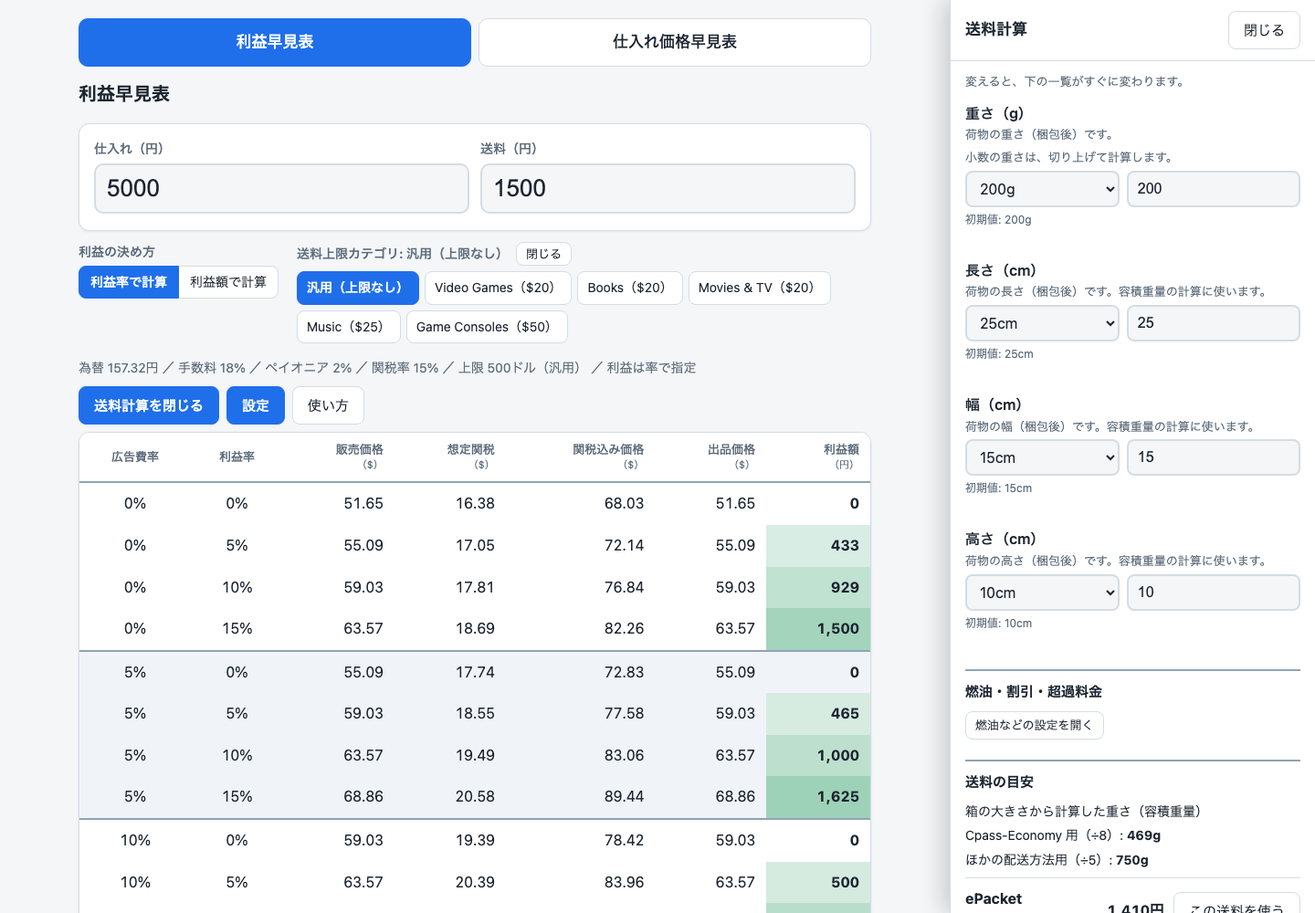
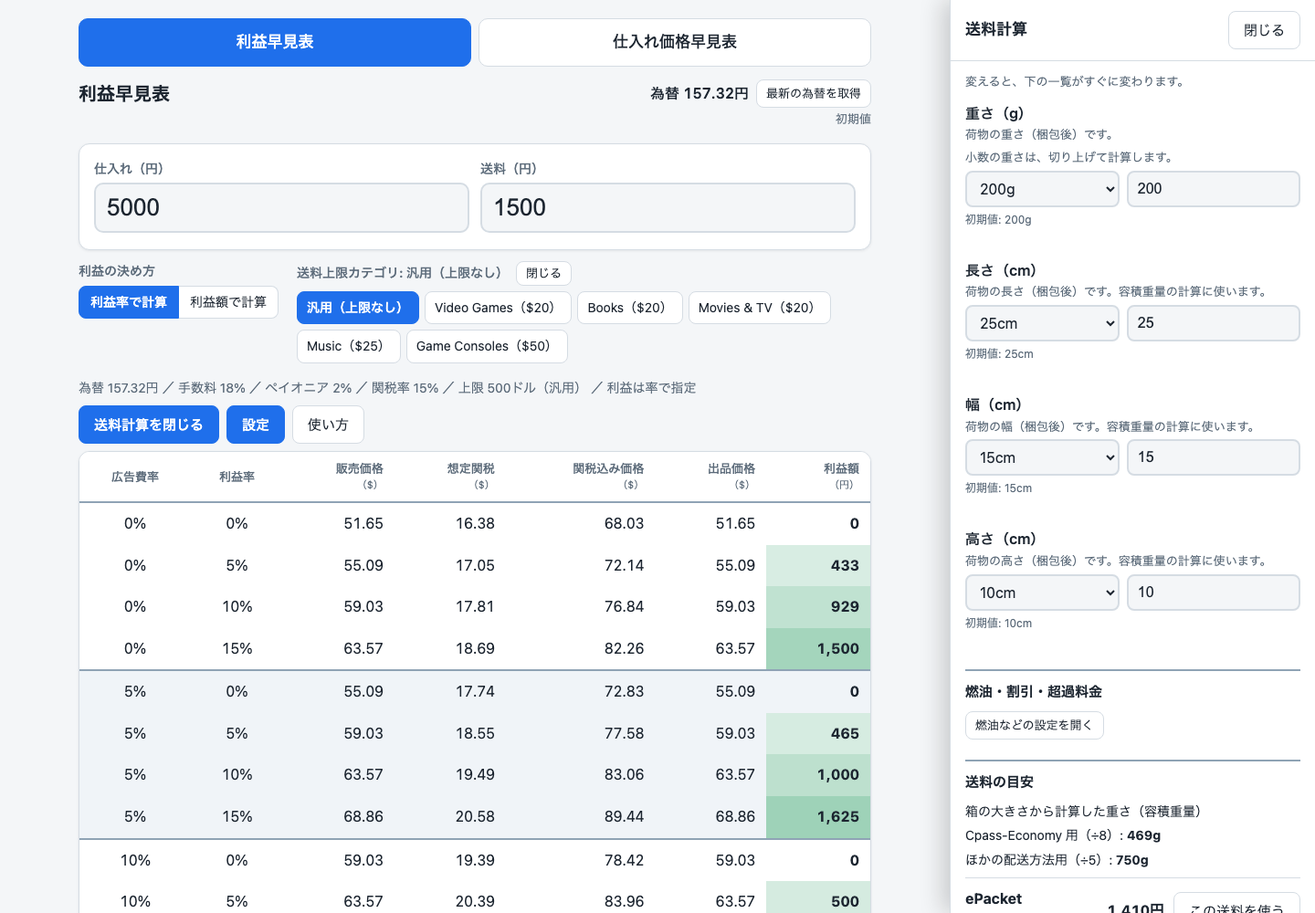
feat: 画面右上に為替の表示と最新取得ボタンを追加、使い方ガイドと画面写真を更新

Changed region(s): [[0.0625, 0.155, 0.6875, 1.0], [0.25, 0.589, 0.3125, 0.992], [0.5, 0.093, 0.6562, 0.155]]

diff --git a/guide.html b/guide.html
@@ -241,8 +241,8 @@ figcaption { font-size: 0.88rem; color: var(--muted); margin-top: 8px; line-heig
 <p>まず、画面の上にあるタブで「利益早見表」を選びます。はじめて開いたときは、こちらが選ばれています。前回選んだ表は、次に開いたときも覚えています。</p>
 
 <figure>
-  <img src="images/01-profit-table.png" alt="利益早見表の初期画面。仕入れ5000円、送料1500円を入れた状態で、広告費率0%から15%、利益率0%から15%の組み合わせが16行の表で並んでいる" width="1100" height="1500">
-  <figcaption>利益早見表の画面です。仕入れ 5000円、送料 1500円を入れた状態です。</figcaption>
+  <img src="images/01-profit-table.png" alt="利益早見表の初期画面。画面の右上に「為替 157.32円」と「最新の為替を取得」ボタン、その下に「初期値」の表示が出ている。仕入れ5000円、送料1500円を入れた状態で、広告費率0%から15%、利益率0%から15%の組み合わせが16行の表で並んでいる。いちばん下に「為替レートの提供: Rates By Exchange Rate API」の行がある" width="1100" height="1500">
+  <figcaption>利益早見表の画面です。仕入れ 5000円、送料 1500円を入れた状態です。右上に為替の表示、いちばん下に為替レートの提供元の行があります。</figcaption>
 </figure>
 
 <h3>手順</h3>
@@ -253,6 +253,21 @@ figcaption { font-size: 0.88rem; color: var(--muted); margin-top: 8px; line-heig
   <li>表を見ます。行は、広告費率と利益率の組み合わせです。自分の条件に近い行を探します。</li>
 </ol>
 <p>表の上の1行（為替・手数料・関税率などが並んだ行）には、いま計算に使っている条件が出ています。表の数字が思ったものと違うときは、まずここを見てください。</p>
+
+<h3>画面の右上の為替の表示</h3>
+<p>画面の右上（表の名前と同じ高さ）に、いま計算に使っている為替が「為替 157.32円」のように出ています。その横の「最新の為替を取得」ボタンを押すと、「設定」を開かなくても、最新の為替を取得して計算に使えます。取得するのは、このボタンを押したときだけです。自動では更新されません。</p>
+<p>ボタンの下の小さな文字は、いまの為替の状態です。</p>
+<div class="tablebox wide">
+  <table class="text">
+    <thead><tr><th>表示</th><th>意味</th></tr></thead>
+    <tbody>
+      <tr><td>初期値</td><td>ツールに入っている初期の為替を使っています。</td></tr>
+      <tr><td>9/30 08:38 に取得</td><td>ボタンで取得した為替です。日時は取得した時刻で、お使いの端末の時刻で出ます（日時は例です）。</td></tr>
+      <tr><td>手入力の値</td><td>「設定」の為替の欄に、自分で数字を入れた値です。</td></tr>
+    </tbody>
+  </table>
+</div>
+<p>取得中は「取得中です…」と出て、うまくいかなかったときは、同じ場所にメッセージが出ます（第9章）。為替のデータは、画面のいちばん下に書いてある提供元から取得します（第8章）。</p>
 
 <h3>表の列の見方</h3>
 <div class="tablebox">
@@ -294,7 +309,7 @@ figcaption { font-size: 0.88rem; color: var(--muted); margin-top: 8px; line-heig
 <p>並べる値そのものは、「設定」で変えます（第7章で説明します）。</p>
 
 <figure>
-  <img src="images/02-profit-amount.png" alt="「利益額で計算」を選んだ画面。利益額の列が1,000円、2,000円、3,000円、5,000円になり、利益率の列には10.7%などの計算結果が出ている" width="1100" height="1500" loading="lazy">
+  <img src="images/02-profit-amount.png" alt="「利益額で計算」を選んだ画面。画面の右上に「為替 157.32円」と「最新の為替を取得」ボタン、その下に「初期値」の表示が出ている。利益額の列が1,000円、2,000円、3,000円、5,000円になり、利益率の列には10.7%などの計算結果が出ている" width="1100" height="1500" loading="lazy">
   <figcaption>「利益額で計算」を選んだ画面です。利益額が 1,000円・2,000円・3,000円・5,000円の行になり、利益率の列に率が出ています。</figcaption>
 </figure>
 
@@ -334,7 +349,7 @@ figcaption { font-size: 0.88rem; color: var(--muted); margin-top: 8px; line-heig
 </ul>
 
 <figure>
-  <img src="images/03-category-adjusted.png" alt="Video Games（$20）を選び、仕入れ20000円、送料1500円にした画面。想定関税の下に赤い「関税の請求は $20.00 まで」、出品価格の下に赤い「調整あり」が出ている。広告費率10%、利益率10%の行は、販売価格227.78、想定関税56.64、関税込み価格284.42、出品価格264.42" width="1100" height="1500" loading="lazy">
+  <img src="images/03-category-adjusted.png" alt="Video Games（$20）を選び、仕入れ20000円、送料1500円にした画面。画面の右上に「為替 157.32円」と「最新の為替を取得」ボタン、その下に「初期値」の表示が出ている。想定関税の下に赤い「関税の請求は $20.00 まで」、出品価格の下に赤い「調整あり」が出ている。広告費率10%、利益率10%の行は、販売価格227.78、想定関税56.64、関税込み価格284.42、出品価格264.42" width="1100" height="1500" loading="lazy">
   <figcaption>Video Games（$20）を選び、仕入れを 20000円にした例です。赤い表示の行が「調整あり」です。利益率0%の行の利益額が 1 や -1 になっているのは、丸めによるものです。</figcaption>
 </figure>
 
@@ -353,8 +368,8 @@ figcaption { font-size: 0.88rem; color: var(--muted); margin-top: 8px; line-heig
 <p>カテゴリの欄は、右上の「閉じる」ボタンで小さくできます。閉じると、ボタンが「開く」に変わります。閉じている間も、選んだカテゴリはそのまま計算に使われます。</p>
 
 <figure>
-  <img src="images/11-category-closed.png" alt="送料上限カテゴリの欄を閉じた画面。「送料上限カテゴリ: Video Games（$20）」の右に「開く」ボタンがあり、6つのカテゴリボタンは隠れている" width="1100" height="1500" loading="lazy">
-  <figcaption>カテゴリの欄を閉じた状態です（仕入れ 5000円の画面）。「開く」を押すと、6つのボタンがまた出ます。</figcaption>
+  <img src="images/11-category-closed.png" alt="送料上限カテゴリの欄を閉じた画面。画面の右上に「為替 157.32円」と「最新の為替を取得」ボタン、その下に「初期値」の表示が出ている。「送料上限カテゴリ: Video Games（$20）」の右に「開く」ボタンがあり、6つのカテゴリボタンは隠れている" width="1100" height="1500" loading="lazy">
+  <figcaption>カテゴリの欄を閉じた状態です（仕入れ 5000円、カテゴリは Video Games）。「開く」を押すと、6つのボタンがまた出ます。</figcaption>
 </figure>
 
 <h2 id="s5">5. 送料計算の使い方</h2>
@@ -362,7 +377,7 @@ figcaption { font-size: 0.88rem; color: var(--muted); margin-top: 8px; line-heig
 <p>パネルは、パネル内の「閉じる」ボタン、または「送料計算を閉じる」ボタンで閉じます。キーボードのEscキーでも閉じられます。「設定」のパネルも同じです。</p>
 
 <figure>
-  <img src="images/04-shipping-calc.png" alt="送料計算のパネルを開いた画面。パネルには重さ200g、長さ25cm、幅15cm、高さ10cmが入っている。「燃油・割引・超過料金」の見出しの下に「燃油などの設定を開く」ボタンがあり、その下の「送料の目安」に、容積重量としてCpass-Economy用469g、ほかの配送方法用750gが出ている。一覧の先頭にePacketが見える" width="1440" height="1000" loading="lazy">
+  <img src="images/04-shipping-calc.png" alt="送料計算のパネルを開いた画面。左側の主画面の右上には「為替 157.32円」と「最新の為替を取得」ボタンがある。パネルには重さ200g、長さ25cm、幅15cm、高さ10cmが入っている。「燃油・割引・超過料金」の見出しの下に「燃油などの設定を開く」ボタンがあり、その下の「送料の目安」に、容積重量としてCpass-Economy用469g、ほかの配送方法用750gが出ている。一覧の先頭にePacketが見える" width="1440" height="1000" loading="lazy">
   <figcaption>送料計算のパネルです。初期値は 重さ200g、長さ25cm、幅15cm、高さ10cm です。</figcaption>
 </figure>
 
@@ -392,7 +407,7 @@ figcaption { font-size: 0.88rem; color: var(--muted); margin-top: 8px; line-heig
 <p>使いたい配送方法の横の「この送料を使う」を押すと、その金額が「送料（円）」に入ります。入力欄の下には、どの方法・どの重さで決めたかが小さく出ます。</p>
 
 <figure>
-  <img src="images/05-shipping-applied.png" alt="Cpass-Economyの「この送料を使う」を押したあとの画面。送料欄が2060になり、その下に「送料計算から設定: Cpass-Economy（重さ200g、料金に使う重さ469g）」と出て、パネルに確認メッセージが緑色で出ている。一覧には、Cpass-FedEx、Cpass-DHL、eLogisticsの料金に使う重さが1,000gと出ている" width="1440" height="1000" loading="lazy">
+  <img src="images/05-shipping-applied.png" alt="Cpass-Economyの「この送料を使う」を押したあとの画面。左側の主画面の右上に為替の表示がある。送料欄が2060になり、その下に「送料計算から設定: Cpass-Economy（重さ200g、料金に使う重さ469g）」と出て、パネルに確認メッセージが緑色で出ている。一覧には、Cpass-FedEx、Cpass-DHL、eLogisticsの料金に使う重さが1,000gと出ている" width="1440" height="1000" loading="lazy">
   <figcaption>Cpass-Economy の「この送料を使う」を押したあとです。送料が 2060 になり、入力欄の下に説明が出ています。</figcaption>
 </figure>
 
@@ -439,11 +454,11 @@ figcaption { font-size: 0.88rem; color: var(--muted); margin-top: 8px; line-heig
 </ol>
 
 <figure>
-  <img src="images/06-purchase-table.png" alt="仕入れ価格早見表の画面。「関税を含まない販売価格」を選び、販売価格100ドル、送料1500円を入れた状態。仕入れ価格の列に、11,085、10,298、9,512などが並んでいる" width="1100" height="1500" loading="lazy">
+  <img src="images/06-purchase-table.png" alt="仕入れ価格早見表の画面。画面の右上に「為替 157.32円」と「最新の為替を取得」ボタン、その下に「初期値」の表示が出ている。「関税を含まない販売価格」を選び、販売価格100ドル、送料1500円を入れた状態。仕入れ価格の列に、11,085、10,298、9,512などが並んでいる" width="1100" height="1500" loading="lazy">
   <figcaption>「関税を含まない販売価格」に 100ドルを入れた例です。広告費率10%、利益率0%の行は 9,512円です。</figcaption>
 </figure>
 <figure>
-  <img src="images/07-purchase-table-incl.png" alt="「関税込み価格」を選び、関税込み価格120ドル、送料1500円を入れた画面。仕入れ価格の列に10,477、9,728などが並び、販売価格は95.17ドルなどに逆算されている" width="1100" height="1500" loading="lazy">
+  <img src="images/07-purchase-table-incl.png" alt="画面の右上に「為替 157.32円」と「最新の為替を取得」ボタン、その下に「初期値」の表示が出ている。「関税込み価格」を選び、関税込み価格120ドル、送料1500円を入れた画面。仕入れ価格の列に10,477、9,728などが並び、販売価格は95.17ドルなどに逆算されている" width="1100" height="1500" loading="lazy">
   <figcaption>「関税込み価格」に 120ドルを入れた例です。関税込み価格から、販売価格を逆算しています。</figcaption>
 </figure>
 
@@ -469,7 +484,7 @@ figcaption { font-size: 0.88rem; color: var(--muted); margin-top: 8px; line-heig
 <p>「利益率（%）」と「利益額（円）」のうち、いま表に使っている方には「いま使用中」の印が付きます。どちらで計算するかは、設定ではなく、画面の上のボタンで切り替えます。</p>
 
 <figure>
-  <img src="images/08-settings-top.png" alt="設定パネルの上の部分。広告費率と利益率の4つの枠に、それぞれ一覧と数字の欄があり、利益率の横に「いま使用中」の印が出ている" width="1440" height="1000" loading="lazy">
+  <img src="images/08-settings-top.png" alt="設定パネルの上の部分。左側の主画面の右上に為替の表示がある。広告費率と利益率の4つの枠に、それぞれ一覧と数字の欄があり、利益率の横に「いま使用中」の印が出ている" width="1440" height="1000" loading="lazy">
   <figcaption>設定パネルの上の部分です。広告費率・利益率・利益額の枠が並びます。</figcaption>
 </figure>
 
@@ -478,12 +493,13 @@ figcaption { font-size: 0.88rem; color: var(--muted); margin-top: 8px; line-heig
 <ul>
   <li>手数料率は、販売サイトに支払う手数料の割合です。</li>
   <li>ペイオニア手数料率は、海外から代金を受け取る際の受取サービスの手数料の割合です。</li>
-  <li>為替は、「最新の為替を取得」ボタンを押すと、最新の値を取得して入れます。取得できなかったときは、メッセージが出て、いまの値のままになります（第9章）。</li>
+  <li>為替は、「最新の為替を取得」ボタンを押すと、最新の値を取得して入れます。同じボタンは、主画面の右上にもあります。どちらを押しても同じ動きです。取得できなかったときは、メッセージが出て、いまの値のままになります（第9章）。</li>
+  <li>為替の欄の下には、状態（「初期値」「9/30 08:38 に取得」のような取得した時刻、「手入力の値」）が出ます。右上の表示と同じ内容です。</li>
 </ul>
 
 <figure>
-  <img src="images/09-settings-rates.png" alt="設定パネルの中ほど。為替の欄と「最新の為替を取得」ボタン、手数料率、ペイオニア手数料率、関税率、上乗せ係数、関税処理手数料率の欄が並んでいる" width="1440" height="1000" loading="lazy">
-  <figcaption>設定パネルの中ほどです。為替の欄の下に「最新の為替を取得」ボタンがあります。</figcaption>
+  <img src="images/09-settings-rates.png" alt="設定パネルの中ほど。為替の欄と「最新の為替を取得」ボタン、その下の「初期値」の表示、「為替レートの提供: Rates By Exchange Rate API」の行、手数料率、ペイオニア手数料率、関税率、上乗せ係数、関税処理手数料率の欄が並んでいる" width="1440" height="1000" loading="lazy">
+  <figcaption>設定パネルの中ほどです。為替の欄の下に「最新の為替を取得」ボタンと、状態の表示（この写真では「初期値」）、為替レートの提供元の行があります。</figcaption>
 </figure>
 
 <h3>関税の項目</h3>
@@ -513,7 +529,7 @@ figcaption { font-size: 0.88rem; color: var(--muted); margin-top: 8px; line-heig
   <table class="text">
     <thead><tr><th>区分</th><th>内容</th></tr></thead>
     <tbody>
-      <tr><td>初期値に戻るもの</td><td>「設定」の全項目（表に並べる条件、為替、手数料、関税の項目、「想定関税が上限以上のとき、出品価格を調整する」のチェック、「Cpass-Economy で送る」、「汎用のときの上限（ドル）」）／「利益の決め方」の切り替え／送料上限カテゴリ／「送料計算」のすべての欄</td></tr>
+      <tr><td>初期値に戻るもの</td><td>「設定」の全項目（表に並べる条件、為替、手数料、関税の項目、「想定関税が上限以上のとき、出品価格を調整する」のチェック、「Cpass-Economy で送る」、「汎用のときの上限（ドル）」）／「利益の決め方」の切り替え／送料上限カテゴリ／「送料計算」のすべての欄／為替の状態の表示（「初期値」に戻ります）</td></tr>
       <tr><td>そのまま残るもの</td><td>いま選んでいる表（利益早見表か仕入れ価格早見表か）／入力した仕入れ／入力した価格と「入力する価格の意味」／入力した送料／カテゴリの欄の開閉の状態</td></tr>
       <tr><td>消えるもの</td><td>送料計算から設定した送料の記録（送料欄の下の説明）と、パネルの確認メッセージ</td></tr>
     </tbody>
@@ -524,15 +540,16 @@ figcaption { font-size: 0.88rem; color: var(--muted); margin-top: 8px; line-heig
 </div>
 
 <figure>
-  <img src="images/10-settings-bottom.png" alt="設定パネルの下の部分。Cpass-Economyの通関手数料、送料の上限の説明、調整のチェック、汎用のときの上限、いちばん下に「初期値に戻す」ボタンが見える" width="1440" height="1000" loading="lazy">
+  <img src="images/10-settings-bottom.png" alt="設定パネルの下の部分。左側の主画面の右上に為替の表示がある。Cpass-Economyの通関手数料、送料の上限の説明、調整のチェック、汎用のときの上限、いちばん下に「初期値に戻す」ボタンが見える" width="1440" height="1000" loading="lazy">
   <figcaption>設定パネルの下の部分です。いちばん下に「初期値に戻す」ボタンがあります。</figcaption>
 </figure>
 
 <h2 id="s8">8. 知っておきたい点</h2>
 <ul>
+  <li><strong>最後に入力した仕入れ・送料・価格は、自動で保存されます。</strong>ページをもう一度開いたときに、そのまま戻ります。保存されるのは、使っているブラウザの中だけです。別のパソコンやブラウザには引き継がれません。ブラウザの保存データを消すと、設定と入力も消えることがあります。</li>
+  <li><strong>為替レートは、画面のいちばん下に書いてある提供元から取得します。</strong>下の行が、その表示です（設定の為替の欄の下にも同じ行があります）。<br>為替レートの提供: <a href="https://www.exchangerate-api.com" target="_blank" rel="noopener">Rates By Exchange Rate API</a></li>
   <li><strong>計算は目安です。</strong>実際の手数料・関税・送料は、販売サイトや配送会社の最新の案内を確認してください。</li>
-  <li><strong>設定と入力は、使っているブラウザの中だけに保存されます。</strong>別のパソコンやブラウザには引き継がれません。ブラウザの保存データを消すと、設定と入力も消えることがあります。</li>
-  <li><strong>為替は、ボタンを押したときだけ最新の値を取得します。</strong>自動では更新されません。</li>
+  <li><strong>為替は、ボタンを押したときだけ最新の値を取得します。</strong>自動では更新されません。ボタンは、主画面の右上と「設定」の中にあります。</li>
   <li><strong>仕入れ価格早見表の金額を利益早見表に入れ直すと、</strong>端数の関係で、販売価格が1〜2セント、利益が数円ずれることがあります。</li>
   <li><strong>関税込み価格を入力したとき、</strong>表の関税込み価格が入力と1セントずれることがあります。</li>
   <li><strong>重さの小数は切り上げて計算します。</strong>30kgを超える重さの送料は、料金表が固定額のため、実際の料金と違う可能性があります。</li>
@@ -540,7 +557,7 @@ figcaption { font-size: 0.88rem; color: var(--muted); margin-top: 8px; line-heig
 </ul>
 
 <h2 id="s9">9. 入力がうまくいかないとき</h2>
-<p>入力が使えない値のときは、ツールが次のメッセージを出します。メッセージごとの対処をまとめます。</p>
+<p>入力が使えない値のときは、ツールが次のメッセージを出します。メッセージごとの対処をまとめます。為替のメッセージは、主画面の右上の状態表示と、「設定」の為替の欄の下に出ます。</p>
 <div class="tablebox wide">
   <table class="text">
     <thead><tr><th>メッセージ</th><th>出る場面と対処</th></tr></thead>

diff --git a/test-calc.js b/test-calc.js
@@ -14,7 +14,9 @@ var mf = html.match(/\/\/ FORM-START([\s\S]*?)\/\/ FORM-END/);
 if (!mf) { console.log('FAIL: FORM block not found'); process.exit(1); }
 var mr = html.match(/\/\/ REV-START([\s\S]*?)\/\/ REV-END/);
 if (!mr) { console.log('FAIL: REV block not found'); process.exit(1); }
-var api = new Function(m[1] + mb[1] + mc[1] + ms[1] + mf[1] + mr[1] + '; return { calcRow: calcRow, calcRowAmount: calcRowAmount, parseNum: parseNum, evalGroup: evalGroup, effectiveThreshold: effectiveThreshold, adjustExampleText: adjustExampleText, CAP_CATEGORIES: CAP_CATEGORIES, chargedTariffUSD: chargedTariffUSD, formatYen: formatYen, formatUsd: formatUsd, MAX_INPUT: MAX_INPUT, shipCost: shipCost, shipBandLookup: shipBandLookup, shipVolWeight: shipVolWeight, shipEpacket: shipEpacket, SHIP_BANDS: SHIP_BANDS, SHIP_METHODS: SHIP_METHODS, SHIP_LIMITS: SHIP_LIMITS, validateShipInputs: validateShipInputs, validateFuelSection: validateFuelSection, shipAvailability: shipAvailability, loadStored: loadStored, pickMatch: pickMatch, SHDEFS: SHDEFS, SHIP_WEIGHT_MAX: SHIP_WEIGHT_MAX, calcRev: calcRev, formatPercent: formatPercent, legendVisible: legendVisible, resetScope: resetScope, tariffInputs: tariffInputs, tariffFor: tariffFor, validateRevInputs: validateRevInputs, revSummaryText: revSummaryText };')();
+var mfx = html.match(/\/\/ FX-START([\s\S]*?)\/\/ FX-END/);
+if (!mfx) { console.log('FAIL: FX block not found'); process.exit(1); }
+var api = new Function(m[1] + mb[1] + mc[1] + ms[1] + mf[1] + mr[1] + mfx[1] + '; return { calcRow: calcRow, calcRowAmount: calcRowAmount, parseNum: parseNum, evalGroup: evalGroup, effectiveThreshold: effectiveThreshold, adjustExampleText: adjustExampleText, CAP_CATEGORIES: CAP_CATEGORIES, chargedTariffUSD: chargedTariffUSD, formatYen: formatYen, formatUsd: formatUsd, MAX_INPUT: MAX_INPUT, shipCost: shipCost, shipBandLookup: shipBandLookup, shipVolWeight: shipVolWeight, shipEpacket: shipEpacket, SHIP_BANDS: SHIP_BANDS, SHIP_METHODS: SHIP_METHODS, SHIP_LIMITS: SHIP_LIMITS, validateShipInputs: validateShipInputs, validateFuelSection: validateFuelSection, shipAvailability: shipAvailability, loadStored: loadStored, pickMatch: pickMatch, SHDEFS: SHDEFS, SHIP_WEIGHT_MAX: SHIP_WEIGHT_MAX, calcRev: calcRev, formatPercent: formatPercent, legendVisible: legendVisible, resetScope: resetScope, tariffInputs: tariffInputs, tariffFor: tariffFor, formatFxTime: formatFxTime, fxStatusText: fxStatusText, validateRevInputs: validateRevInputs, revSummaryText: revSummaryText };')();
 var calcRow = api.calcRow, calcRowAmount = api.calcRowAmount, parseNum = api.parseNum, evalGroup = api.evalGroup;
 var effectiveThreshold = api.effectiveThreshold;
 
@@ -349,7 +351,7 @@ check('availability: fallback rows report their own limit', api.shipAvailability
 check('availability: normal rows are available', api.shipAvailability('EMS', api.shipCost('EMS', 500, 10, 10, 10, SP)) === null && api.SHIP_WEIGHT_MAX === 68000, '');
 
 // 20) F9: 保存データの読み込み
-var BASE = { tab: 'profit', revMode: 'excl', revPrice: '100', capOpen: true, exchangeRate: '157.315109', useCpassEconomy: false, adjustEnabled: true, capCategory: caps[0], profitMode: 'rate', pr1: '0', pr2: '5', pr3: '10', pr4: '15', pa1: '1000', pa4: '5000', shWeight: '200', shL: '25', shFuelF: '40' };
+var BASE = { fxAt: '', fxSource: 'default', tab: 'profit', revMode: 'excl', revPrice: '100', capOpen: true, exchangeRate: '157.315109', useCpassEconomy: false, adjustEnabled: true, capCategory: caps[0], profitMode: 'rate', pr1: '0', pr2: '5', pr3: '10', pr4: '15', pa1: '1000', pa4: '5000', shWeight: '200', shL: '25', shFuelF: '40' };
 function ld(o) { return api.loadStored(o, BASE); }
 var initOut = { state: BASE, inputs: { cost: '5000', ship: '1500' }, applied: null };
 check('load: old data without pr4 / pa4 / shipping keys keeps initial values', (function () {
@@ -499,7 +501,7 @@ check('tariffInputs: single source gives the same k and c as the written-out for
   var t = api.tariffInputs(S, 0.05), adj = 0.15 / (1 - 0.18 - 0.05) * 1.03;
   return t.adj === adj && t.k === adj * 1.021 + 0.08 * 0.021 && t.c === 0 + 0 + 1000 / 157.315109 && api.tariffInputs(S, 0.82) === null; })(), '');
 // H3: 初期値に戻すの範囲
-var BASE2 = { tab: 'profit', revMode: 'excl', revPrice: '100', capOpen: true, exchangeRate: '157.315109', profitMode: 'rate', capCategory: caps[0], useCpassEconomy: false, pr1: '0', shWeight: '200', shFuelF: '40', adjustEnabled: true };
+var BASE2 = { fxAt: '', fxSource: 'default', tab: 'profit', revMode: 'excl', revPrice: '100', capOpen: true, exchangeRate: '157.315109', profitMode: 'rate', capCategory: caps[0], useCpassEconomy: false, pr1: '0', shWeight: '200', shFuelF: '40', adjustEnabled: true };
 var curState = { tab: 'rev', revMode: 'incl', revPrice: '77.5', capOpen: false, exchangeRate: '150', profitMode: 'amount', capCategory: caps[1], useCpassEconomy: true, pr1: '9', shWeight: '999', shFuelF: '10', adjustEnabled: false };
 var MSG0 = '設定を初期値に戻しました。利益の決め方・送料上限カテゴリ・送料計算の条件も初期値に戻っています。入力した仕入れ・価格・送料はそのままです。';
 var rs1 = api.resetScope(curState, { cost: '8000', ship: '2060' }, { m: 'Cpass-Economy', weightEntered: 200, weightG: 469, yen: 2060 }, BASE2);
@@ -535,5 +537,30 @@ if (extensionUrls) {
 check('ext: markup has the hidden web link and the in-extension styles', /<a class="guidelink hidden" id="webLink" href="https:\/\/naokijodan\.github\.io\/profit-matrix\/" target="_blank" rel="noopener">ウェブ版<\/a>/.test(html) && /body\.in-extension\.settings-open \{ padding-right: 0; \}/.test(html) && /var IN_EXTENSION = location\.protocol === 'chrome-extension:'/.test(html), '');
 
 check('credit: attribution link text and URL appear exactly twice (footer and settings)', html.split('為替レートの提供: <a href="https://www.exchangerate-api.com" target="_blank" rel="noopener">Rates By Exchange Rate API</a>').length - 1 === 2, '');
+
+// 24) J1: 為替の取得時刻と状態の表示
+var T0 = Date.UTC(2026, 8, 29, 18, 20);   // 日本時間 2026-09-30 03:20
+check('formatFxTime: 9/30 03:20 in Japan time', api.formatFxTime(T0, 540) === '9/30 03:20', api.formatFxTime(T0, 540));
+check('formatFxTime: no zero padding for month/day, zero padding for hour/minute', api.formatFxTime(Date.UTC(2026, 0, 4, 22, 5), 540) === '1/5 07:05' && api.formatFxTime(Date.UTC(2026, 11, 31, 14, 59), 540) === '12/31 23:59' && api.formatFxTime(T0, 0) === '9/29 18:20', '');
+check('formatFxTime: default uses the local time zone', (function () { var d = new Date(T0); return api.formatFxTime(T0) === (d.getMonth() + 1) + '/' + d.getDate() + ' ' + (d.getHours() < 10 ? '0' : '') + d.getHours() + ':' + (d.getMinutes() < 10 ? '0' : '') + d.getMinutes(); })(), api.formatFxTime(T0));
+check('fxStatusText: default / manual / fetched', api.fxStatusText('default', '') === '初期値' && api.fxStatusText('manual', String(T0)) === '手入力の値' && api.fxStatusText('fetched', String(T0), 540) === '9/30 03:20 に取得', api.fxStatusText('fetched', String(T0), 540));
+check('fxStatusText: fetched without a usable time, and unknown source', api.fxStatusText('fetched', '') === '取得した値' && api.fxStatusText('fetched', 'abc') === '取得した値' && api.fxStatusText('fetched', '0') === '取得した値' && api.fxStatusText('fetched', 5) === '取得した値' && api.fxStatusText('x', '') === '初期値' && api.fxStatusText(undefined) === '初期値', '');
+// J3: 為替の新しい保存項目
+check('load: old data without fxAt / fxSource gives initial values', (function () { var r = ld({ exchangeRate: '150' }); return r.state.fxAt === '' && r.state.fxSource === 'default' && r.state.exchangeRate === '150'; })(), '');
+check('load: fxAt / fxSource restored', (function () { var r = ld({ exchangeRate: '151.2', fxSource: 'fetched', fxAt: String(T0) }); return r.state.fxSource === 'fetched' && r.state.fxAt === String(T0) && api.fxStatusText(r.state.fxSource, r.state.fxAt, 540) === '9/30 03:20 に取得'; })(), '');
+check('load: manual source restored', ld({ fxSource: 'manual' }).state.fxSource === 'manual', '');
+check('load: bad fxAt / fxSource fall back', (function () { var r = ld({ fxSource: 'x', fxAt: 123 }), r2 = ld({ fxSource: 5, fxAt: '1e5' }), r3 = ld({ fxAt: '12abc' }), r4 = ld({ fxAt: '1234567890123456' }); return r.state.fxSource === 'default' && r.state.fxAt === '' && r2.state.fxSource === 'default' && r2.state.fxAt === '' && r3.state.fxAt === '' && r4.state.fxAt === ''; })(), '');
+check('reset scope: exchange-rate source and time go back to initial', (function () {
+  var r = api.resetScope(Object.assign({}, curState, { fxSource: 'fetched', fxAt: String(T0) }), { cost: '1', ship: '2' }, null, BASE2); return r.state.fxSource === 'default' && r.state.fxAt === '' && api.fxStatusText(r.state.fxSource, r.state.fxAt) === '初期値'; })(), '');
+// 入力値の保存と復元（仕入れ・送料・価格）
+check('load: typed cost, shipping and price are restored from stored data', (function () { var r = ld({ inputs: { cost: '8000', ship: '2,060' }, revPrice: '123.45' }); return r.inputs.cost === '8000' && r.inputs.ship === '2,060' && r.state.revPrice === '123.45'; })(), '');
+check('load: initial values are used when nothing is stored', [null, undefined, {}].every(function (g) { var r = ld(g); return r.inputs.cost === '5000' && r.inputs.ship === '1500' && r.state.revPrice === '100'; }), '');
+check('load: empty typed strings are kept as typed (not replaced by initial values)', (function () { var r = ld({ inputs: { cost: '', ship: '' }, revPrice: '' }); return r.inputs.cost === '' && r.inputs.ship === '' && r.state.revPrice === ''; })(), '');
+check('load: wrong-typed inputs fall back to initial values', (function () { var r = ld({ inputs: { cost: 8000, ship: null }, revPrice: 120 }); return r.inputs.cost === '5000' && r.inputs.ship === '1500' && r.state.revPrice === '100'; })(), '');
+// ページの部品
+check('page: exchange-rate block on the heading row, both buttons share one fetch function', /id="fxBtnMain"/.test(html) && /id="fxStatus"/.test(html) && /id="fxRate"/.test(html) && /class="headrow"/.test(html) && (html.match(/function fetchFx/g) || []).length === 1 && /\$\('fxBtnMain'\)\.addEventListener\('click', fetchFx\)/.test(html) && /\$\('fxBtn'\)\.addEventListener\('click', fetchFx\)/.test(html) && /\['fxBtn', 'fxBtnMain'\]/.test(html), '');
+check('page: hand-edited rate is marked manual', /if \(f\.fx\) state\.fxSource = 'manual'/.test(html), '');
+check('page: the cancelled recall-dropdown feature left no trace', !new RegExp('履' + '歴|his' + 't', 'i').test(html) && html.indexOf('labrow') < 0, '');
+
 console.log('\n' + pass + ' passed, ' + fail + ' failed (total ' + (pass + fail) + ')');
 process.exit(fail ? 1 : 0);

diff --git a/index.html b/index.html
@@ -52,7 +52,16 @@ body {
   line-height: 1.6;
 }
 .wrap { max-width: 900px; margin: 0 auto; padding: 20px 16px 48px; }
-h1 { font-size: 20px; margin: 0 0 16px; }
+h1 { font-size: 20px; margin: 0; }
+.headrow { display: flex; flex-wrap: wrap; justify-content: space-between; align-items: flex-start; gap: 8px 16px; margin: 0 0 16px; }
+.fxbox { margin-left: auto; text-align: right; min-width: 0; max-width: 100%; }
+.fxbox .fxline { display: flex; flex-wrap: wrap; justify-content: flex-end; align-items: center; gap: 4px 8px; }
+.fxbox .fxrate { font-weight: 600; font-variant-numeric: tabular-nums; }
+.fxbox button { padding: 4px 10px; font-size: 13px; }
+.fxbox .fxstat { margin: 2px 0 0; min-height: 1.2em; color: var(--muted); }
+.fxbox .fxstat.err { color: var(--err); }
+.fxbox .fxstat.ok { color: var(--ok); }
+
 .card { background: var(--surface); border: 1px solid var(--border); border-radius: 12px; padding: 16px; box-shadow: var(--shadow); }
 .inputs { display: grid; grid-template-columns: minmax(0,1fr) minmax(0,1fr); gap: 12px; }
 .inputs > div { min-width: 0; }
@@ -210,7 +219,13 @@ body.in-extension.settings-open { padding-right: 0; }
     <button type="button" id="tabProfit" aria-pressed="true">利益早見表</button>
     <button type="button" id="tabRev" aria-pressed="false">仕入れ価格早見表</button>
   </div>
-  <h1 id="h1">利益早見表</h1>
+  <div class="headrow">
+    <h1 id="h1">利益早見表</h1>
+    <div class="fxbox" id="fxBox">
+      <div class="fxline"><span class="fxrate" id="fxRate"></span><button type="button" id="fxBtnMain">最新の為替を取得</button></div>
+      <div class="inline fxstat" id="fxStatus" role="status"></div>
+    </div>
+  </div>
 
   <div class="card inputs">
     <div class="hidden" id="revSwitch" style="grid-column:1/-1">
@@ -649,6 +664,8 @@ function loadStored(o, base) {
     else if (k === 'profitMode') { if (v === 'rate' || v === 'amount') st[k] = v; }
     else if (k === 'tab') { if (v === 'profit' || v === 'rev') st[k] = v; }
     else if (k === 'revMode') { if (v === 'excl' || v === 'incl') st[k] = v; }
+    else if (k === 'fxSource') { if (v === 'default' || v === 'fetched' || v === 'manual') st[k] = v; }
+    else if (k === 'fxAt') { if (typeof v === 'string' && (v === '' || /^\d{1,15}$/.test(v))) st[k] = v; }
     else if (typeof v === 'string') st[k] = v;
   });
   var inp = own(o, 'inputs') ? o.inputs : null;
@@ -745,6 +762,27 @@ function extensionUrls(protocol) {
 }
 // EXT-END
 
+// FX-START
+// 為替の取得時刻と、状態の表示（純粋な関数）
+// ms: 取得した時刻（ミリ秒）。offsetMin: 時差（分）。省略すると、いまの端末の時間
+function formatFxTime(ms, offsetMin) {
+  var off = (offsetMin === undefined) ? -new Date(ms).getTimezoneOffset() : offsetMin;
+  var d = new Date(ms + off * 60000);
+  function p2(n) { return (n < 10 ? '0' : '') + n; }
+  return (d.getUTCMonth() + 1) + '/' + d.getUTCDate() + ' ' + p2(d.getUTCHours()) + ':' + p2(d.getUTCMinutes());
+}
+// source: 'default'（初期値）/ 'fetched'（取得）/ 'manual'（手入力）。at: 取得時刻（ミリ秒の文字列）
+function fxStatusText(source, at, offsetMin) {
+  if (source === 'manual') return '手入力の値';
+  if (source === 'fetched') {
+    var n = Number(at);
+    if (typeof at === 'string' && /^\d{1,15}$/.test(at) && n > 0) return formatFxTime(n, offsetMin) + ' に取得';
+    return '取得した値';
+  }
+  return '初期値';
+}
+// FX-END
+
 (function () {
   'use strict';
   var STORE_KEY = 'profit-matrix-settings-v1';
@@ -802,6 +840,7 @@ function extensionUrls(protocol) {
     o.profitMode = 'rate';
     o.capCategory = GENERAL;
     o.tab = 'profit'; o.revMode = 'excl'; o.revPrice = '100'; o.capOpen = true;
+    o.fxAt = ''; o.fxSource = 'default';
     SHDEFS.forEach(function (f) { o[f.k] = f.def; });
     return o;
   }
@@ -813,6 +852,7 @@ function extensionUrls(protocol) {
   var customBox = {};       // 空の枠で「自分で入力」を選んでいる間の印
   var fxToken = 0;          // 為替取得の受付番号（古い返事を捨てるため）
   var fuelOpen = false;
+  var fxTransient = null, fxTimer = null;      // 為替の一時的な表示（取得中・失敗など）
 
   function load() {
     try {
@@ -872,6 +912,7 @@ function extensionUrls(protocol) {
 
   function renderSummary(b) {
     var s = b.s;
+    $('fxRate').textContent = '為替 ' + s.exchangeRate.toFixed(2) + '円';
     var parts = ['為替 ' + s.exchangeRate.toFixed(2) + '円', '手数料 ' + pctText(s.feeRate) + '%',
       'ペイオニア ' + pctText(s.payoneerRate) + '%', '関税率 ' + pctText(s.tariffRate) + '%'];
     if (s.useCpassEconomy) parts.push('Cpass-Economy 通関手数料 ' + s.ceCustomsFeeYen + '円');
@@ -1076,6 +1117,7 @@ function extensionUrls(protocol) {
       var el = $('f_' + f.k);
       el.addEventListener((f.kind === 'bool' || f.kind === 'choice') ? 'change' : 'input', function () {
         state[f.k] = f.kind === 'bool' ? el.checked : el.value;
+        if (f.fx) state.fxSource = 'manual';
         if (f.k === 'useCpassEconomy') $('shMsg').textContent = '';
         save();
         refresh();
@@ -1304,6 +1346,7 @@ function extensionUrls(protocol) {
     renderCap(b);
     render();
     renderShip();
+    renderFxStatus();
   }
 
   var timers = {};
@@ -1313,14 +1356,29 @@ function extensionUrls(protocol) {
     if (ms) timers[el.id] = setTimeout(function () { el.textContent = ''; }, ms);
   }
 
+  // 為替の表示（設定の中と、画面の右上の両方に同じ文を出す）
+  function renderFxStatus() {
+    var t = fxTransient ? fxTransient.text : fxStatusText(state.fxSource, state.fxAt);
+    var cls = fxTransient ? fxTransient.cls : '';
+    [['fxMsg', 'inline'], ['fxStatus', 'inline fxstat']].forEach(function (x) {
+      var el = $(x[0]); if (!el) return;
+      el.className = x[1] + (cls ? ' ' + cls : ''); el.textContent = t;
+    });
+  }
+  function setFxTransient(text, cls, ms) {
+    clearTimeout(fxTimer);
+    fxTransient = { text: text, cls: cls };
+    renderFxStatus();
+    if (ms) fxTimer = setTimeout(function () { fxTransient = null; renderFxStatus(); }, ms);
+  }
+  function setFxButtons(disabled) { ['fxBtn', 'fxBtnMain'].forEach(function (id) { var b = $(id); if (b) b.disabled = disabled; }); }
   function fetchFx() {
-    var msg = $('fxMsg'), btn = $('fxBtn');
-    msg.className = 'inline'; msg.textContent = '取得中です…';
-    btn.disabled = true;
+    setFxTransient('取得中です…', '', 0);
+    setFxButtons(true);
     var done = false, myToken = ++fxToken, timedOut = false, timer = null, ctrl = null;
     function stale() { return myToken !== fxToken; }
-    function finish() { clearTimeout(timer); if (!stale()) btn.disabled = false; }
-    function fail(t) { finish(); if (done || stale()) return; done = true; msg.className = 'inline err'; msg.textContent = t; }
+    function finish() { clearTimeout(timer); if (!stale()) setFxButtons(false); }
+    function fail(t) { finish(); if (done || stale()) return; done = true; setFxTransient(t, 'err', 0); }
     try {
       if (typeof AbortController !== 'undefined') {
         ctrl = new AbortController();
@@ -1336,14 +1394,16 @@ function extensionUrls(protocol) {
         if (typeof v !== 'number' || !(v >= 100 && v <= 200)) { fail('取得した値が想定の範囲外だったため、使いませんでした。'); return; }
         done = true;
         state.exchangeRate = String(v);
+        state.fxSource = 'fetched'; state.fxAt = String(Date.now());
         $('f_exchangeRate').value = state.exchangeRate;
         save(); refresh();
-        flash(msg, 'ok', '最新の為替 ' + v + '円 を設定しました。', 5000);
+        setFxTransient('最新の為替 ' + v + '円 を設定しました。', 'ok', 5000);
       }).catch(function () {
         fail(timedOut ? '為替を取得できませんでした（時間切れ）。もう一度お試しください。' : '為替を取得できませんでした。通信状態を確認して、もう一度お試しください。');
       });
     } catch (e) { fail('為替を取得できませんでした。'); }
   }
+  $('fxBtnMain').addEventListener('click', fetchFx);
 
   $('tabProfit').addEventListener('click', function () { state.tab = 'profit'; save(); refresh(); });
   $('tabRev').addEventListener('click', function () { state.tab = 'rev'; save(); refresh(); });
@@ -1400,10 +1460,10 @@ function extensionUrls(protocol) {
     var res = resetScope(state, inputs, shipFrom, defaults());
     state = res.state; inputs = res.inputs; shipFrom = res.applied;
     customBox = {}; fxToken++;
-    $('fxBtn').disabled = false;
+    setFxButtons(false);
     $('shMsg').textContent = ''; renderShipCap();
     save(); syncFields(); refresh();
-    $('fxMsg').textContent = '';
+    clearTimeout(fxTimer); fxTransient = null; renderFxStatus();
     flash($('resetMsg'), 'ok', res.message, 8000);
   });
 
